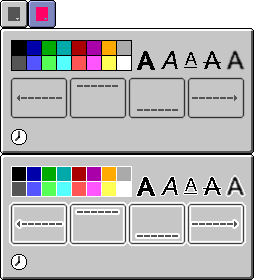
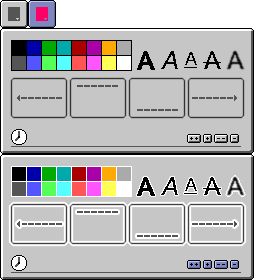
done

Changed region(s): [[0.0551, 0.8857, 0.937, 1.0], [0.0551, 0.4571, 0.9646, 0.5429]]

diff --git a/BilicraftComments/src/main/java/lain/mods/bilicraftcomments/client/GuiComment.java b/BilicraftComments/src/main/java/lain/mods/bilicraftcomments/client/GuiComment.java
@@ -50,6 +50,23 @@ public class GuiComment extends GuiScreen
         }
     }
 
+    public static enum LifespanControlArea
+    {
+        c0(20, 187, 106, 14, 9), // ++
+        c1(2, 203, 106, 9, 9), // +
+        c2(-20, 214, 106, 14, 9), // --
+        c3(-2, 230, 106, 9, 9); // -
+
+        public final int m;
+        public final Rect rect;
+
+        private LifespanControlArea(int modifier, int x, int y, int w, int h)
+        {
+            m = modifier;
+            rect = new Rect(x, y, w, h);
+        }
+    }
+
     public static enum ModeArea
     {
         m0(0, 8, 47, 61, 46), // 0
@@ -165,6 +182,14 @@ public class GuiComment extends GuiScreen
                     break;
                 }
             }
+            for (LifespanControlArea area : LifespanControlArea.values())
+            {
+                if (area.rect.isMouseHovering(x, y))
+                {
+                    drawRectTexture(areaSettings.x + area.rect.x, areaSettings.y + area.rect.y, area.rect.w, area.rect.h, area.rect.x, 154 + area.rect.y, zLevel);
+                    break;
+                }
+            }
             drawString(mc.fontRenderer, String.format("%.1f", (float) lifespan / 20F), areaSettings.x + 33, areaSettings.y + 105, 0xFFFFFF);
         }
         super.drawScreen(par1, par2, par3);
@@ -251,6 +276,14 @@ public class GuiComment extends GuiScreen
                 if (area.rect.isMouseHovering(x, y))
                 {
                     mode = area.id;
+                    break;
+                }
+            }
+            for (LifespanControlArea area : LifespanControlArea.values())
+            {
+                if (area.rect.isMouseHovering(x, y))
+                {
+                    lifespan += area.m;
                     break;
                 }
             }
